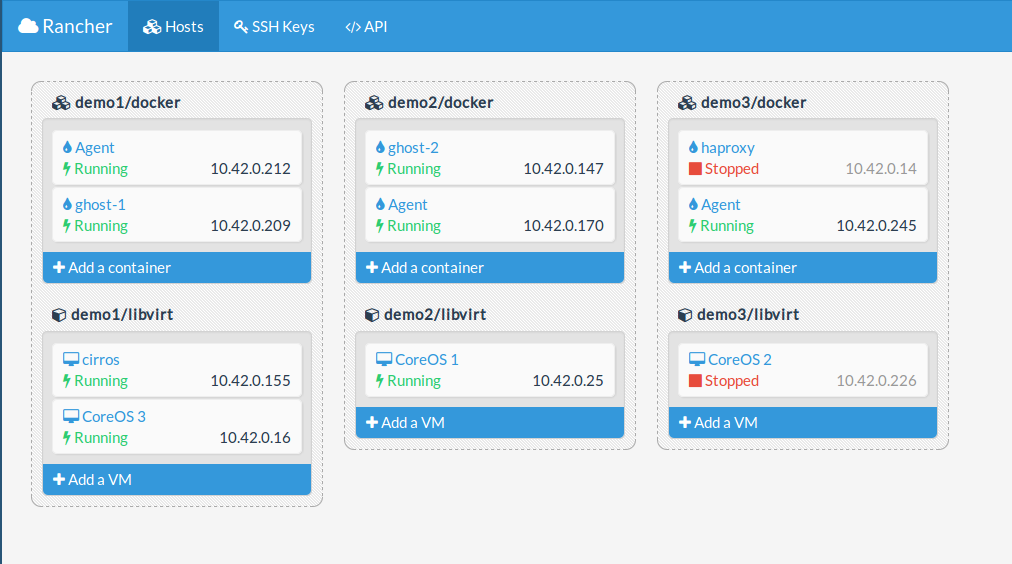
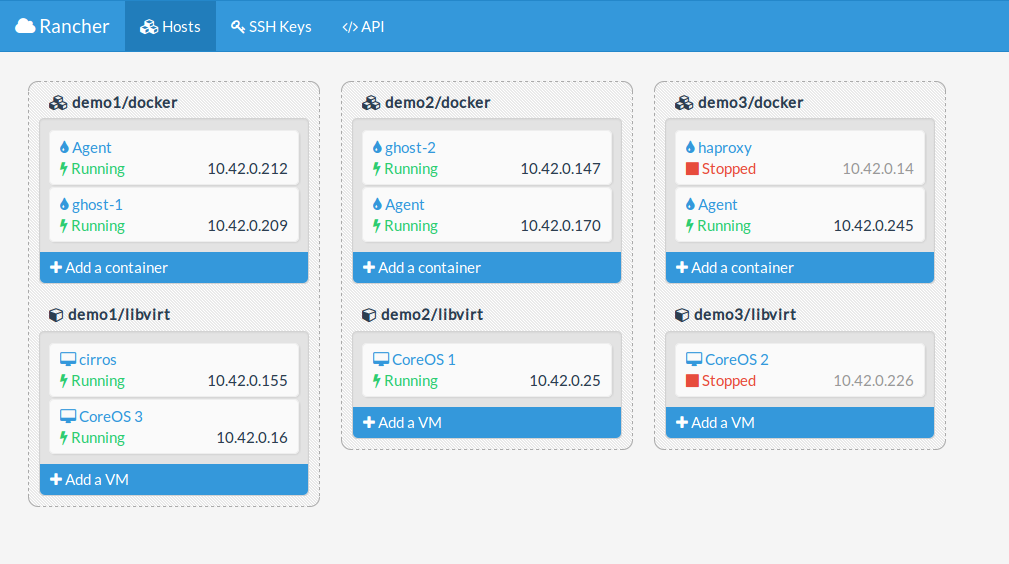
docs

diff --git a/README.md b/README.md
@@ -39,7 +39,7 @@ API/UI will be accessible at http://localhost:9080.  Running from Vagrant may ta
 
 # UI
 
-[![UI](docs/ui.png)]
+![UI](docs/ui.png)
 
 # Functionality
 
